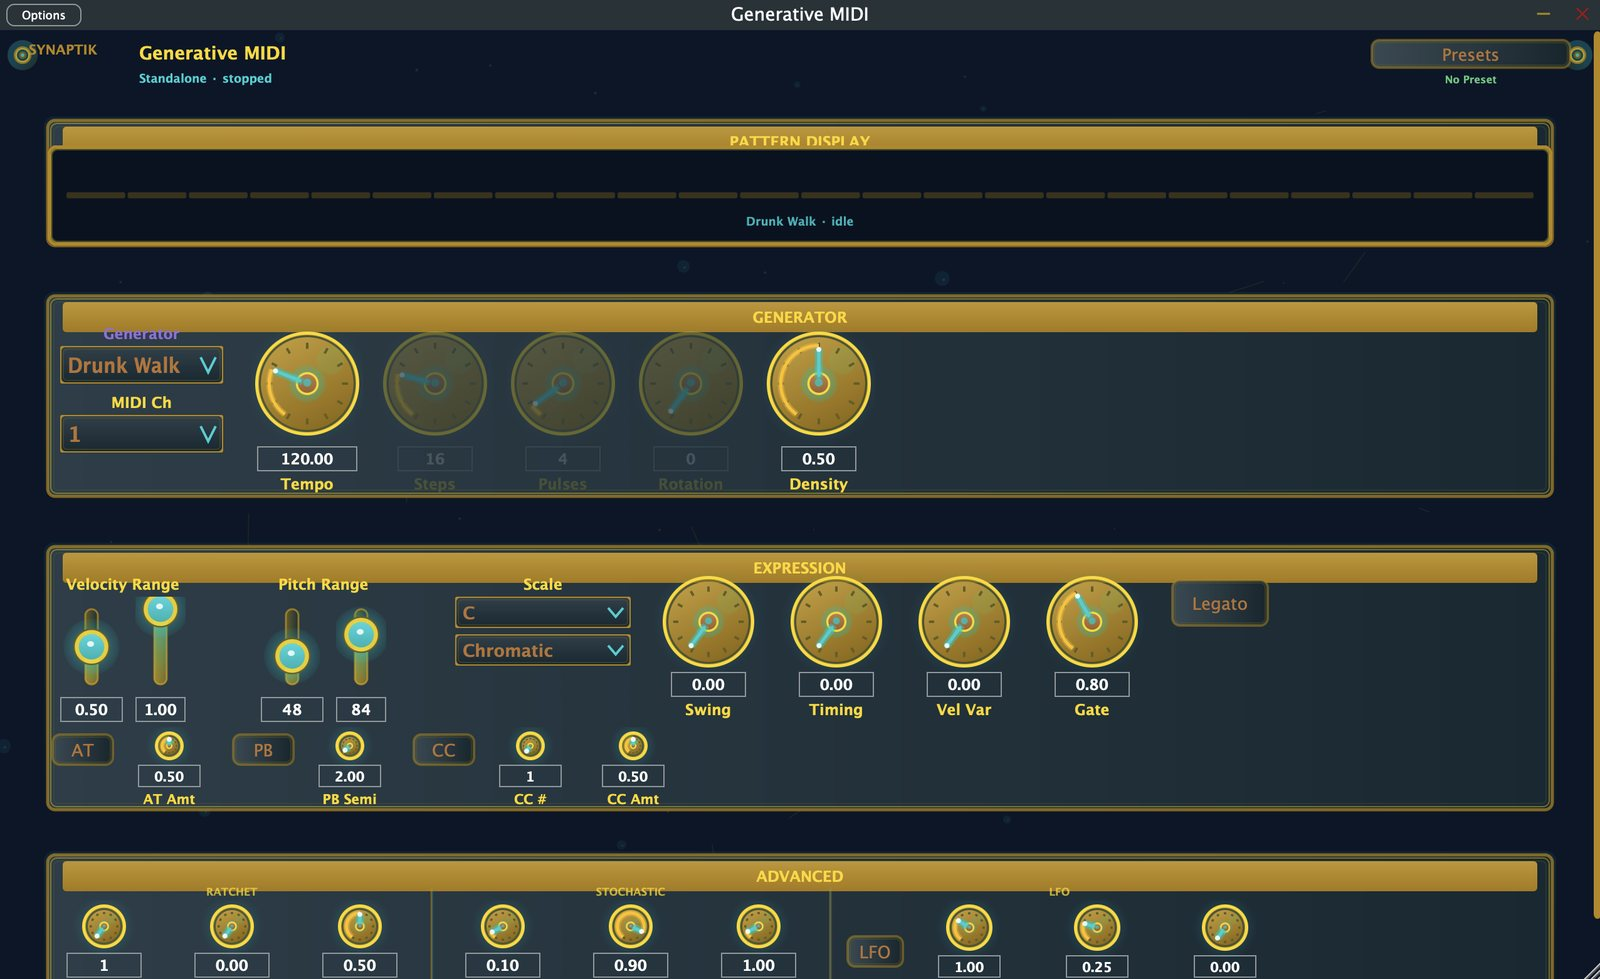
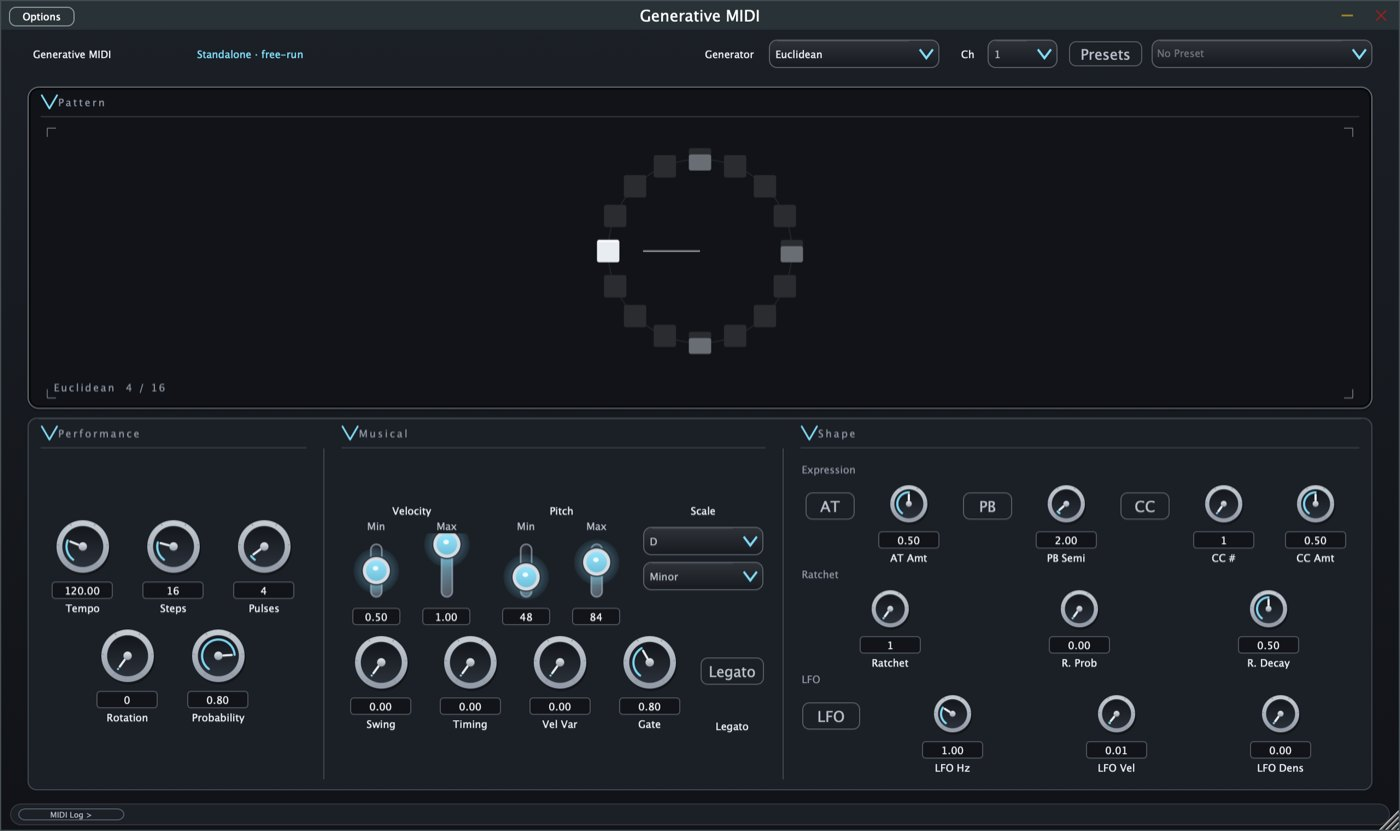
fix(site): repair editor-chrome.svg, use latest Standalone screenshot, add generator pattern gallery (#11)
editor-chrome.svg contained invalid bytes (stripped high bytes of the middle
dot, em dash and caret), so browsers refused to load it on both pages.
Replace the 22 Sep brass screenshot with the 24 Sep ui_polish capture and add
six pattern-panel crops from the viz_* captures (all app-only, no desktop).
Illustration now says 11 factory presets.

diff --git a/docs/index.html b/docs/index.html
@@ -113,9 +113,50 @@
         <h2 class="section__title" id="system-title">System at a glance</h2>
         <p class="section__lead"><strong class="plain">The path a note takes: from your music app, through the plugin, to an instrument.</strong> <span class="tech">What exists now: <a class="term" href="#g-daw">host</a> → format wrapper → processor/params → engines → MIDI out.</span></p>
         <figure class="diagram diagram--shot">
-          <img src="assets/standalone-screenshot.jpg" width="1600" height="979" alt="Screenshot of the Generative MIDI Standalone app: a dark blue and brass window with a pattern display, a Generator panel set to Drunk Walk with tempo and density knobs, an Expression panel, and an Advanced panel with ratchet, stochastic and LFO knobs.">
-          <figcaption><strong class="plain">This is the real app.</strong> Screenshot of the Standalone app, cropped to the plugin window from the repo’s QA evidence (<code>docs/qa/logs/ui_overhaul_overview.png</code>, captured 22 Sep 2026). The generator is Drunk Walk and playback is stopped, so the pattern display is empty. The interface may have changed in later commits.</figcaption>
+          <img src="assets/standalone-screenshot.jpg" width="1400" height="831" alt="Screenshot of the Generative MIDI Standalone app in a dark steel and cyan theme. A Pattern panel shows the Euclidean generator as a ring of 16 steps, with Performance knobs (tempo, steps, pulses, rotation, probability), Musical controls (velocity and pitch ranges, scale, swing, timing, gate) and a Shape panel with expression, ratchet and LFO controls.">
+          <figcaption><strong class="plain">This is the real app.</strong> Screenshot of the Standalone app from the repo’s QA evidence (<code>docs/qa/logs/ui_polish_1280.png</code>, captured 24 Sep 2026). The Euclidean generator is selected and the app is free-running with no music app attached. The interface may have changed in later commits.</figcaption>
         </figure>
+        <h3 class="gallery-title" id="gallery-title">What six of the generators draw</h3>
+        <p class="plain">Each generator shows its own picture of the music it is making.</p>
+        <ul class="gallery" aria-labelledby="gallery-title">
+          <li>
+            <figure>
+              <img src="assets/pattern-euclidean.jpg" width="1100" height="196" alt="Euclidean pattern display: a ring of 16 steps with 4 lit." loading="lazy">
+              <figcaption><strong>Euclidean.</strong> Hits spaced evenly around a ring (here 4 of 16 steps).</figcaption>
+            </figure>
+          </li>
+          <li>
+            <figure>
+              <img src="assets/pattern-markov.jpg" width="1100" height="196" alt="Markov pattern display: a row of six note markers on a line, the last one highlighted." loading="lazy">
+              <figcaption><strong>Markov.</strong> A row of notes, each picked based on the note before it.</figcaption>
+            </figure>
+          </li>
+          <li>
+            <figure>
+              <img src="assets/pattern-probabilistic.jpg" width="1100" height="196" alt="Probabilistic pattern display: a short row of note markers with a highlighted last note." loading="lazy">
+              <figcaption><strong>Probabilistic.</strong> Notes land by chance; the density knob sets how often.</figcaption>
+            </figure>
+          </li>
+          <li>
+            <figure>
+              <img src="assets/pattern-brownian.jpg" width="1100" height="196" alt="Brownian pattern display: a nearly flat pitch line ending in a bright dot." loading="lazy">
+              <figcaption><strong>Brownian.</strong> A pitch line that drifts in small random steps.</figcaption>
+            </figure>
+          </li>
+          <li>
+            <figure>
+              <img src="assets/pattern-drunk-walk.jpg" width="1100" height="196" alt="Drunk Walk pattern display: a stepped pitch line rising from left to right." loading="lazy">
+              <figcaption><strong>Drunk Walk.</strong> Pitch stumbles up and down one step at a time.</figcaption>
+            </figure>
+          </li>
+          <li>
+            <figure>
+              <img src="assets/pattern-lorenz.jpg" width="1100" height="196" alt="Lorenz pattern display: a looping line path with a bright dot at the current point." loading="lazy">
+              <figcaption><strong>Lorenz.</strong> A path traced by chaotic equations; the bright dot is the current point.</figcaption>
+            </figure>
+          </li>
+        </ul>
+        <p class="tech">Pattern panels cropped from real Standalone captures (<code>docs/qa/logs/viz_*.png</code>, 24 Sep 2026). Perlin, Cellular, L-System and Polyrhythm are not shown here.</p>
         <figure class="diagram">
           <picture>
             <source media="(max-width: 720px)" srcset="assets/signal-path-narrow.svg" width="320" height="480">
@@ -135,7 +176,7 @@
         </figure>
         <figure class="diagram">
           <img src="assets/editor-chrome.svg" width="920" height="420" alt="Illustrative Generative MIDI editor chrome showing pattern display, generator controls, and expression panel">
-          <figcaption>Editor chrome illustration (STATUS.md v0.8.0 snapshot) — a labeled drawing, not a screenshot. The real screenshot is above.</figcaption>
+          <figcaption>Editor chrome illustration (STATUS.md v0.8.0 snapshot) — a labeled drawing of the earlier layout, not a screenshot. The real screenshot is above.</figcaption>
         </figure>
       </div>
     </section>

diff --git a/docs/engineering.html b/docs/engineering.html
@@ -75,6 +75,10 @@
           <li><strong>Formats</strong> — <a class="term" href="index.html#g-au">AU</a>, <a class="term" href="index.html#g-vst3">VST3</a>, <a class="term" href="index.html#g-standalone">Standalone</a> verified locally historically; <a class="term" href="index.html#g-auv3">AUv3</a> configured in CMake with iOS docs (not store-ready). CI (<code>.github/workflows/ci.yml</code>) builds on macOS, iOS (AUv3), Windows, and Linux; pluginval runs on the VST3 build for macOS, Windows, and Linux.</li>
           <li><strong>Editor</strong> — LookAndFeel / steampunk craft; bitmap UI path documented; Polyrhythm (experimental) is selectable in the generator dropdown and APVTS; 11 factory presets; MIDI expression (AT/PB/CC note-on emit).</li>
         </ul>
+        <figure class="diagram diagram--shot">
+          <img src="assets/standalone-screenshot.jpg" width="1400" height="831" alt="Screenshot of the Generative MIDI Standalone app in a dark steel and cyan theme. A Pattern panel shows the Euclidean generator as a ring of 16 steps, with Performance knobs (tempo, steps, pulses, rotation, probability), Musical controls (velocity and pitch ranges, scale, swing, timing, gate) and a Shape panel with expression, ratchet and LFO controls.">
+          <figcaption><strong class="plain">This is the real app.</strong> Screenshot of the Standalone app from the repo’s QA evidence (<code>docs/qa/logs/ui_polish_1280.png</code>, captured 24 Sep 2026). The Euclidean generator is selected and the app is free-running with no music app attached. The interface may have changed in later commits.</figcaption>
+        </figure>
         <figure class="diagram">
           <picture>
             <source media="(max-width: 720px)" srcset="assets/signal-path-narrow.svg" width="320" height="480">
@@ -94,7 +98,7 @@
         </figure>
         <figure class="diagram">
           <img src="assets/editor-chrome.svg" width="920" height="420" alt="Illustrative Generative MIDI editor chrome showing pattern display, generator controls, and expression panel">
-          <figcaption>Editor chrome illustration (STATUS.md v0.8.0 snapshot) — not a live Standalone screenshot.</figcaption>
+          <figcaption>Editor chrome illustration (STATUS.md v0.8.0 snapshot) — a labeled drawing of the earlier layout, not a screenshot. The real screenshot is above.</figcaption>
         </figure>
       </div>
     </section>

diff --git a/docs/assets/site.css b/docs/assets/site.css
@@ -971,3 +971,42 @@ details > :not(summary),
     break-inside: avoid-page;
   }
 }
+
+/* ——— Generator gallery ——— */
+
+.gallery-title {
+  margin: 2rem 0 0.4rem;
+  font-family: var(--font-display);
+  font-size: 1.2rem;
+  font-weight: 500;
+  color: var(--brass);
+}
+
+.gallery {
+  display: grid;
+  grid-template-columns: repeat(auto-fit, minmax(min(100%, 22rem), 1fr));
+  gap: 1.25rem;
+  margin: 1rem 0;
+  padding: 0;
+  list-style: none;
+}
+
+.gallery figure {
+  margin: 0;
+  background: var(--bg-panel);
+  border: 1px solid var(--rule);
+}
+
+.gallery img {
+  width: 100%;
+}
+
+.gallery figcaption {
+  padding: 0.6rem 0.75rem 0.75rem;
+  font-size: 0.9rem;
+  color: var(--text-muted);
+}
+
+.gallery figcaption strong {
+  color: var(--brass-soft);
+}
